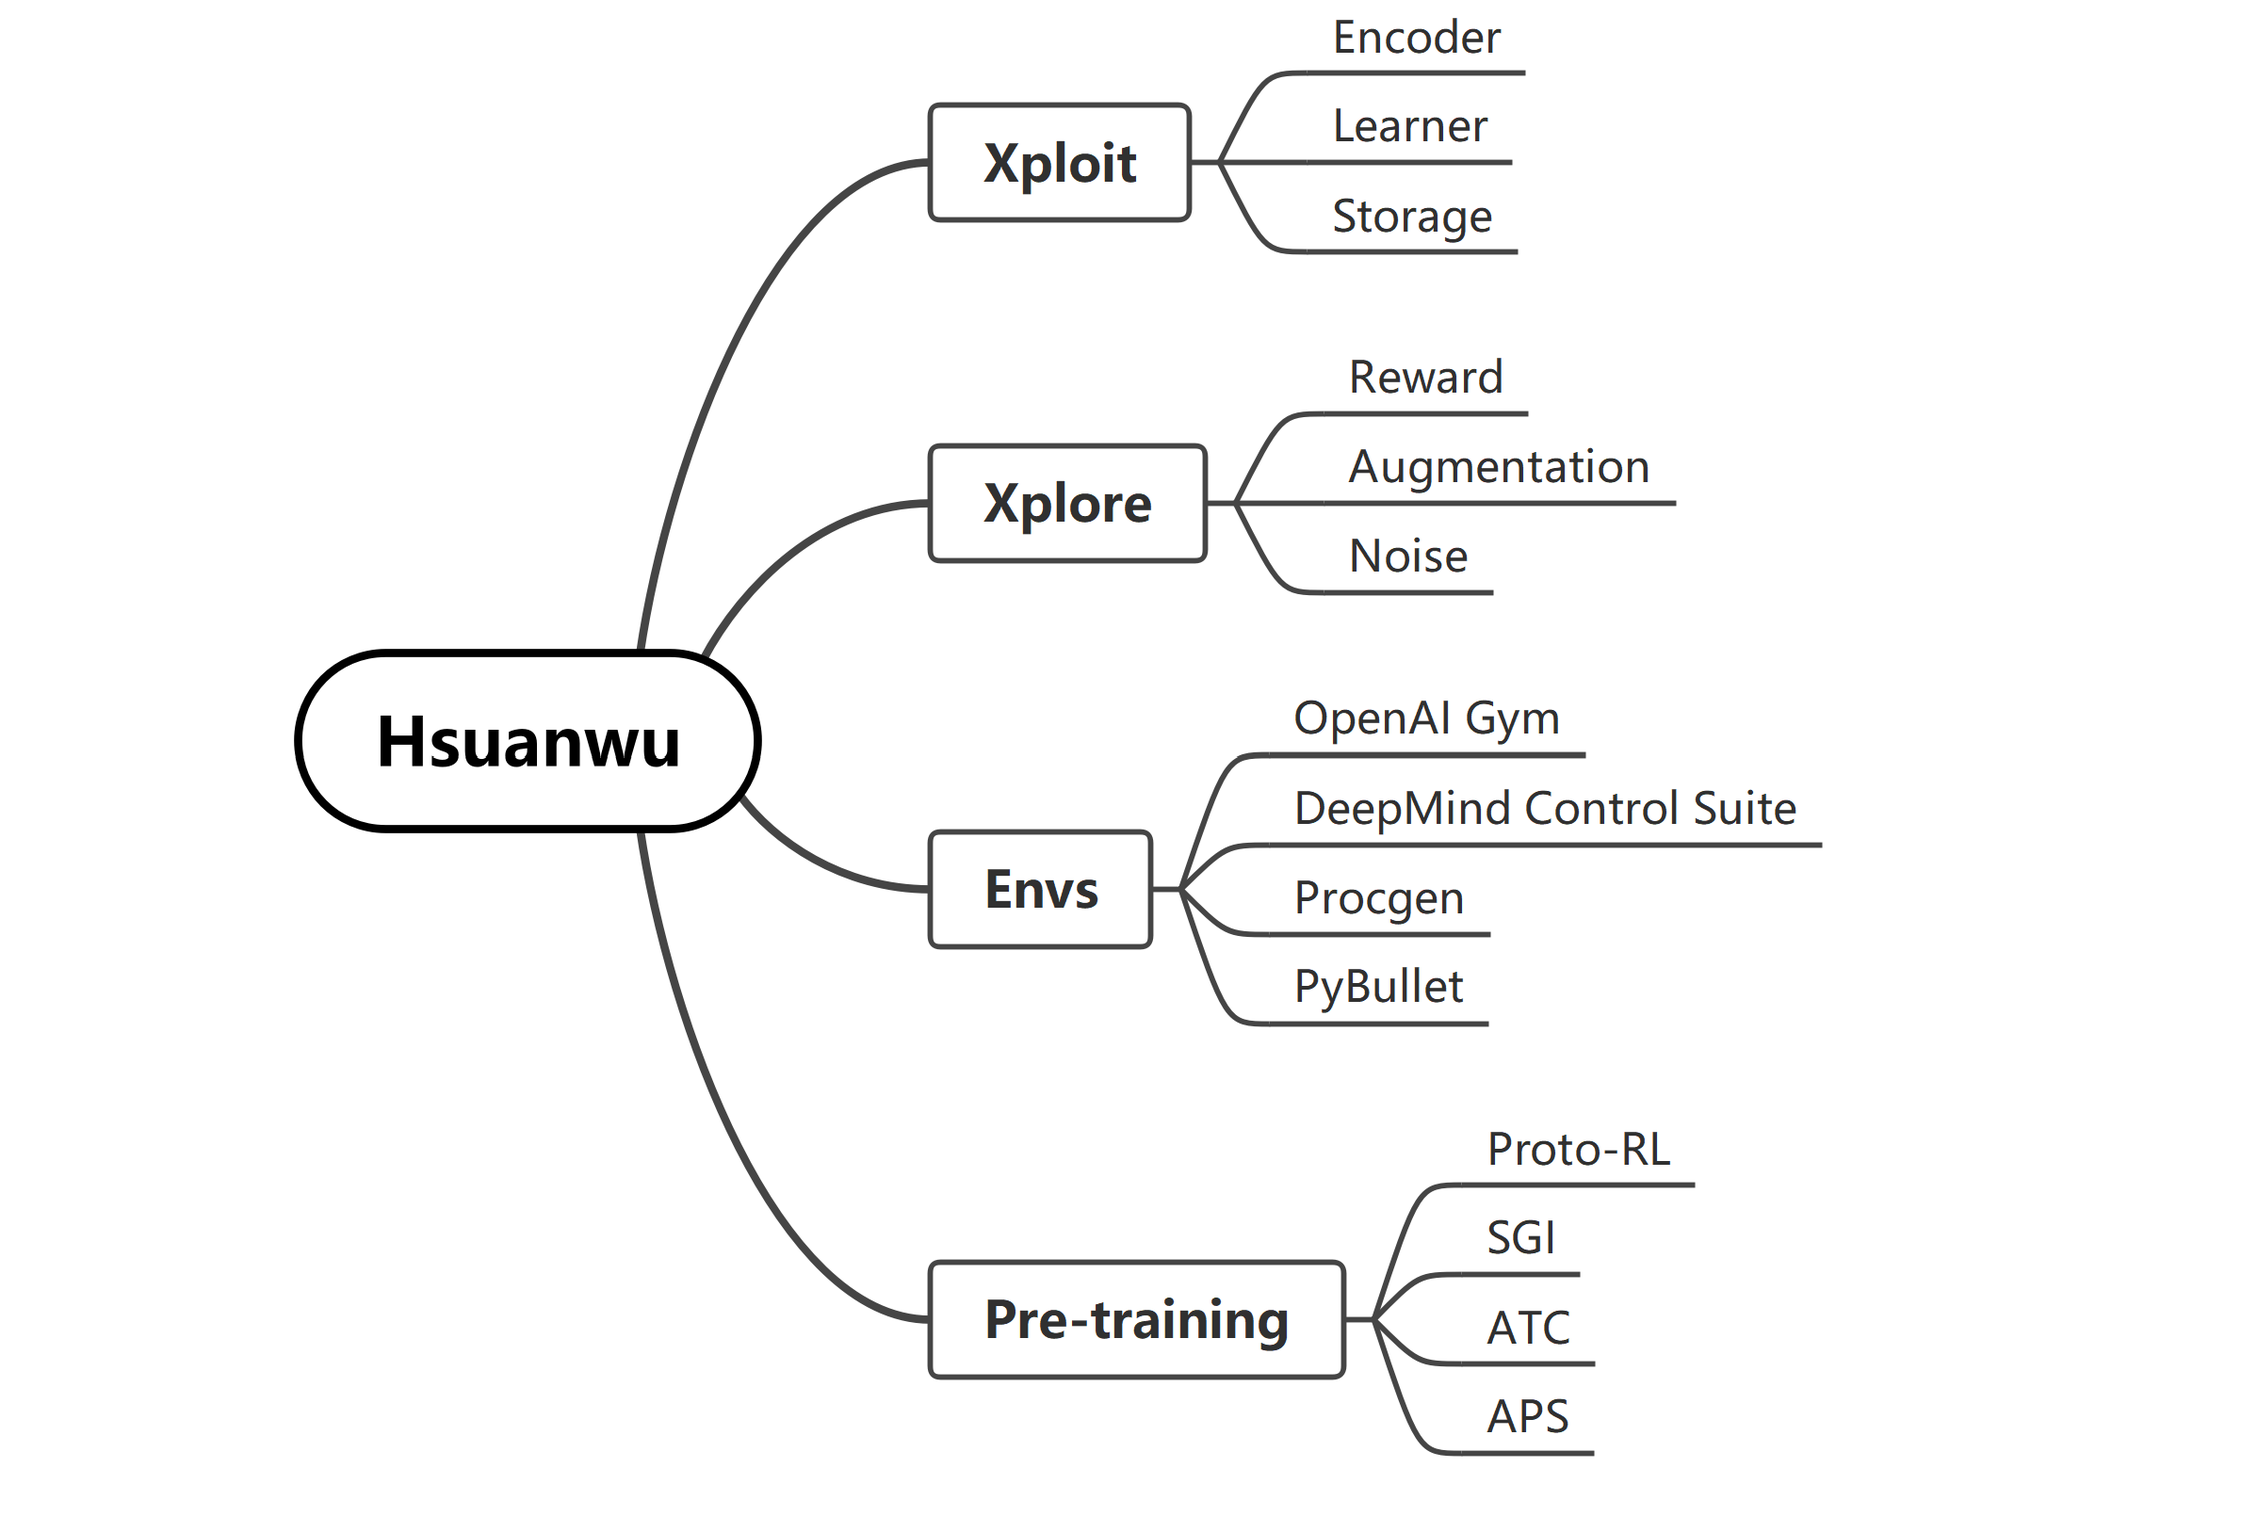
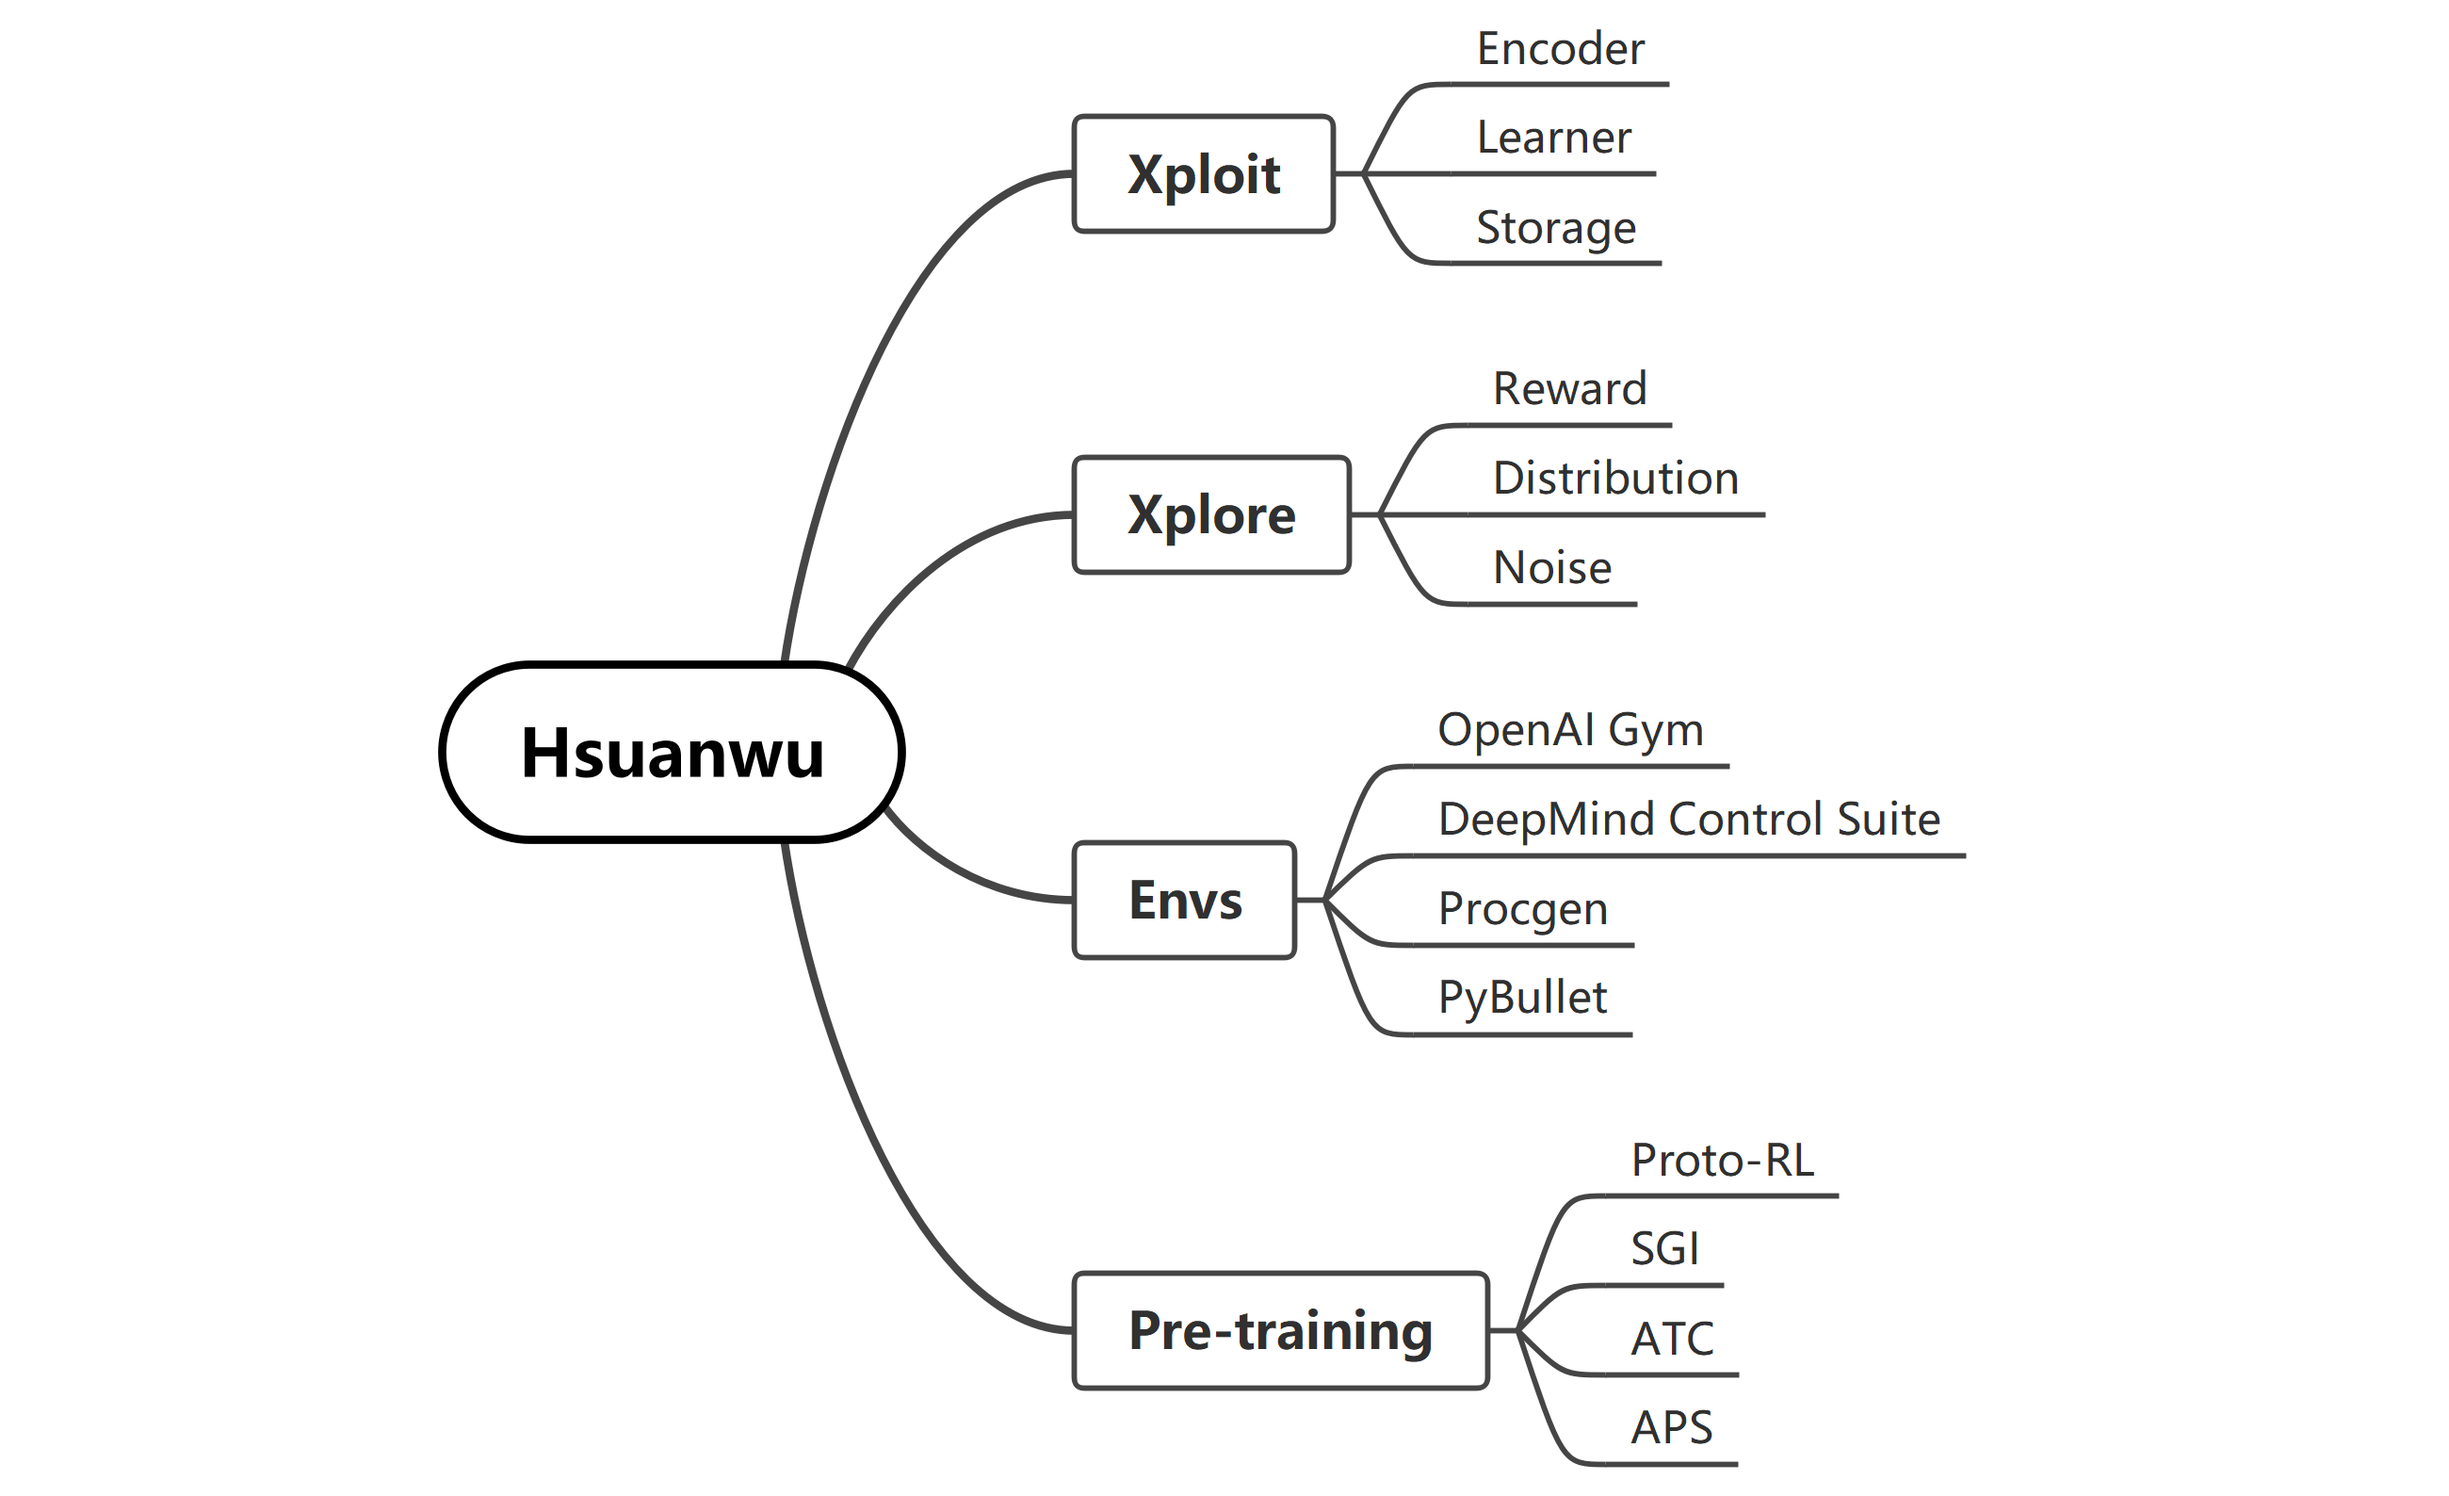
update docs

Changed region(s): [[0.1244, 0.2469, 0.8084, 0.9874], [0.3109, 0.0, 0.684, 0.3086]]

diff --git a/docs/api/xplore/distribution/base.md b/docs/api/xplore/distribution/base.md
@@ -11,7 +11,7 @@ BaseDistribution(
 
 
 ---
-Base class of action noise.
+Base class of distribution.
 
 
 **Args**
@@ -25,7 +25,7 @@ Base class of action noise.
 
 **Returns**
 
-Base action noise instan.
+Base distribution instance.
 
 
 **Methods:**

diff --git a/docs/api/xplore/distribution/ornstein_uhlenbeck.md b/docs/api/xplore/distribution/ornstein_uhlenbeck.md
@@ -30,7 +30,7 @@ Based on http://math.stackexchange.com/questions/1287634/implementing-ornstein-u
 
 **Returns**
 
-Action Noise instance.
+Ornstein-Uhlenbeck noise instance.
 
 
 **Methods:**

diff --git a/docs/api/xplore/distribution/truncated_normal.md b/docs/api/xplore/distribution/truncated_normal.md
@@ -25,7 +25,7 @@ Truncated normal distribution for sampling noise.
 
 **Returns**
 
-Action noise instance.
+Truncated normal distribution instance.
 
 
 **Methods:**
